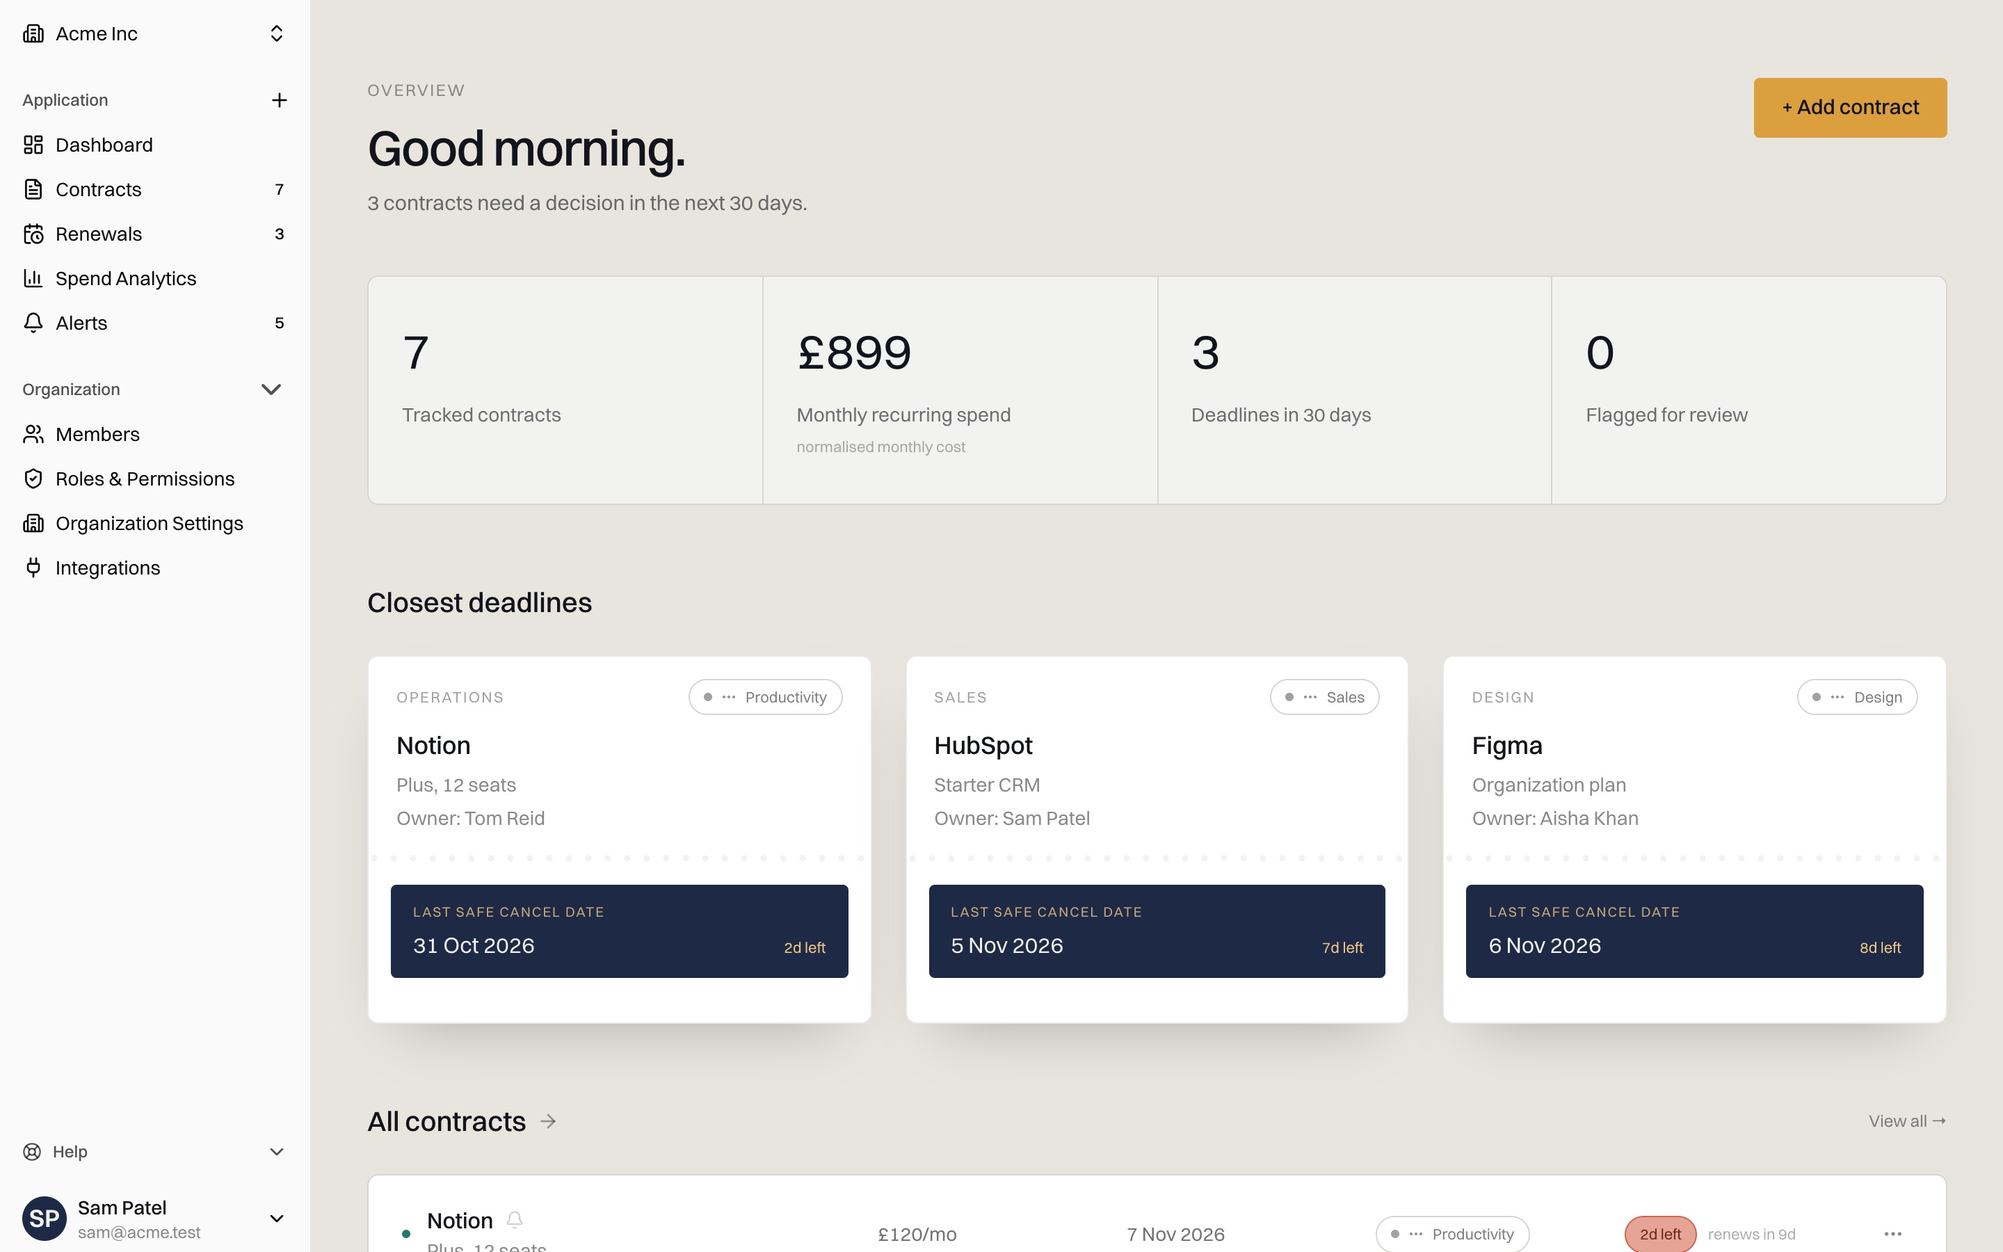
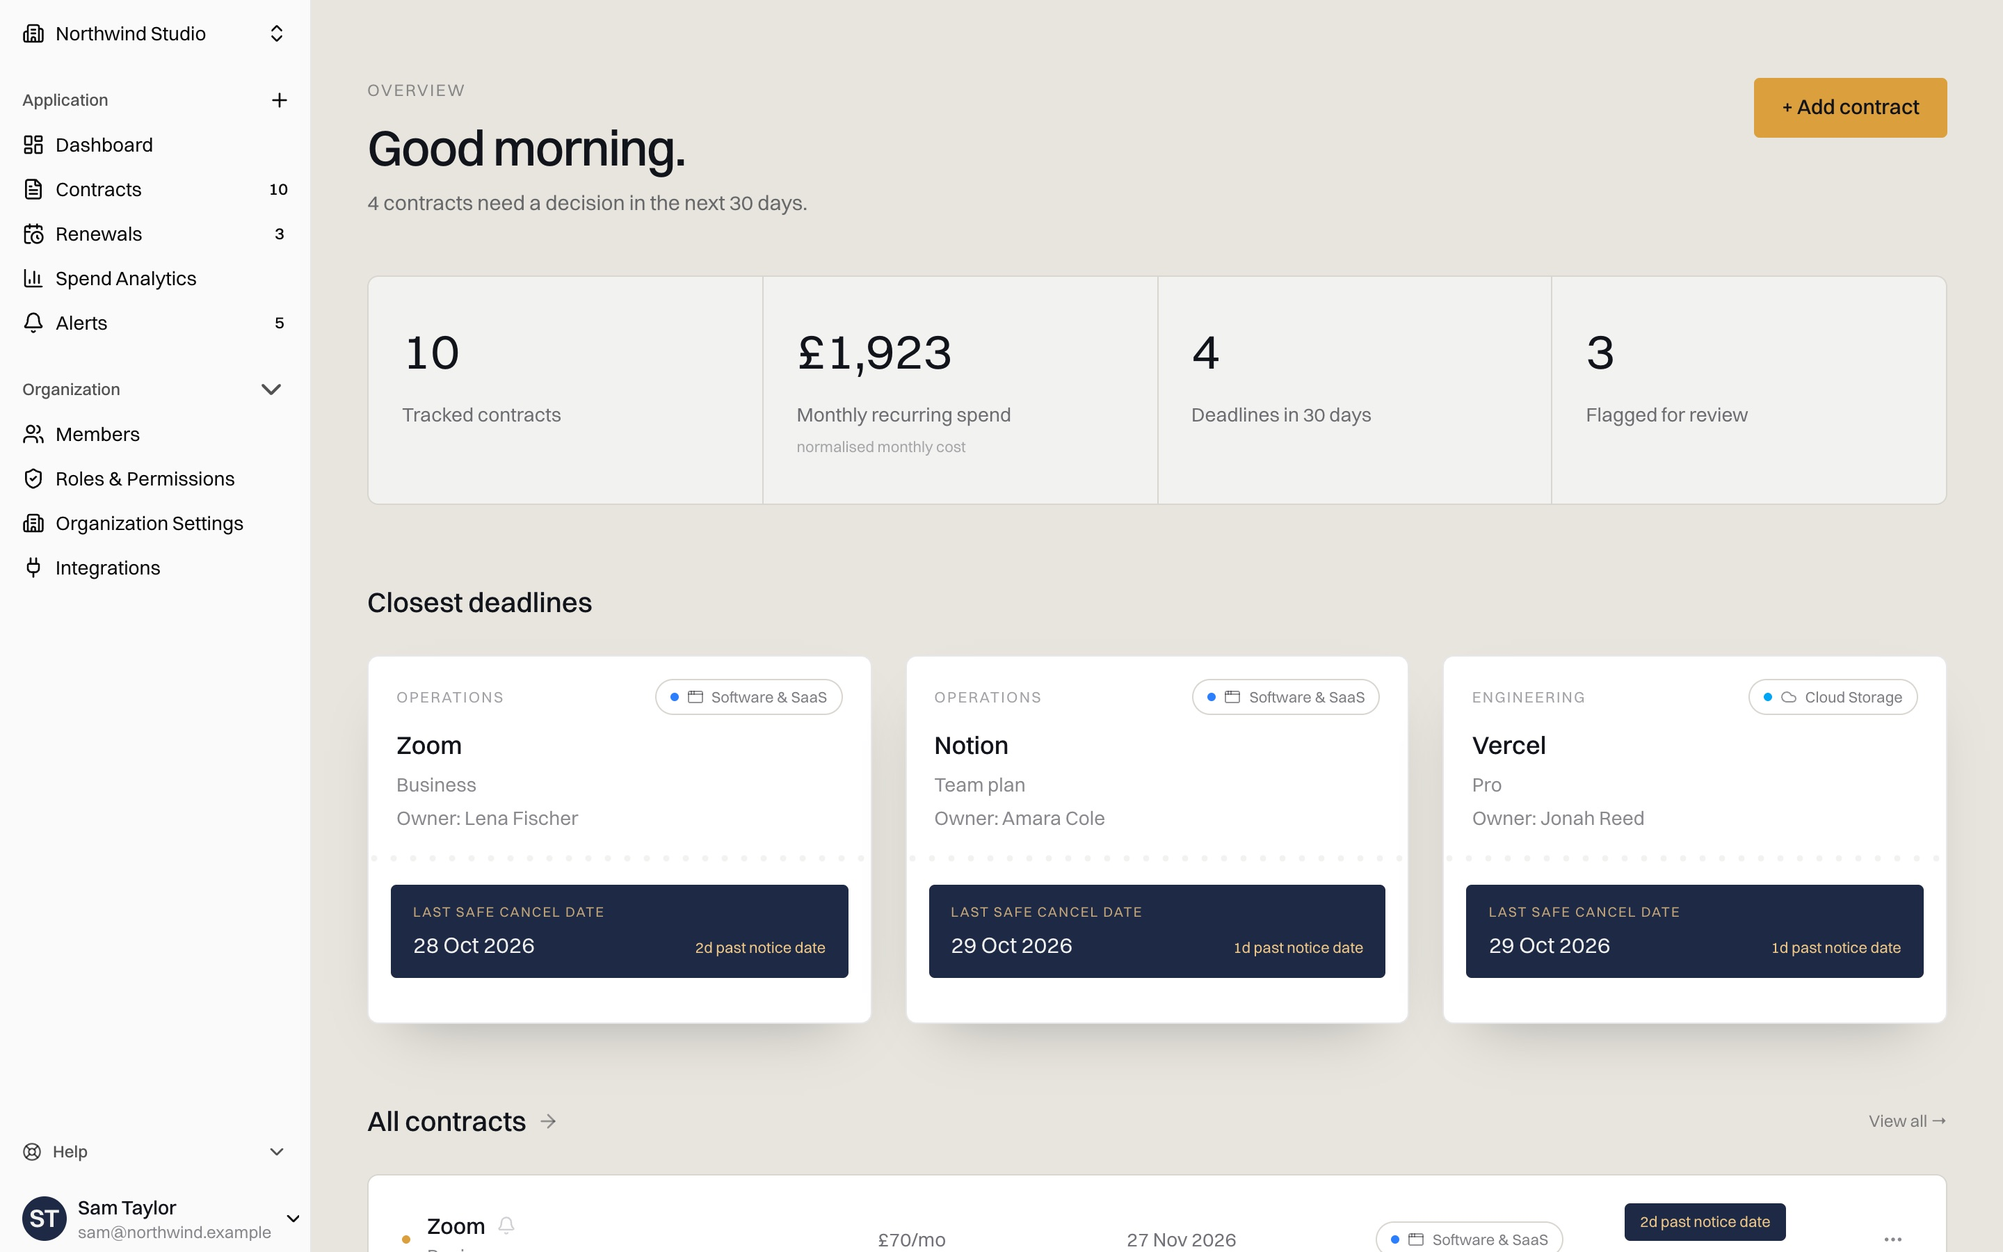
Add /journey page, real project screenshots and personal details

diff --git a/src/data/journey.ts b/src/data/journey.ts
@@ -1,13 +1,18 @@
 // The Journey section on the home page. Oldest first, ordered by GitHub creation date.
 // To add a node, see workflows/add-journey-node.md. Nothing here may overclaim: roles are
-// stated, and every "learned" line is Musa's own words (TODO(musa) until written).
+// stated, and every "learned" and "story" line comes from Musa's own account.
 import type { ImageMetadata } from 'astro';
 import prayer from '../assets/journey/prayer.jpg';
+import prayerTimes from '../assets/journey/prayer-times.jpg';
 import newsflux from '../assets/journey/newsflux.jpg';
+import newsfluxWeather from '../assets/journey/newsflux-weather.jpg';
 import hussein from '../assets/journey/hussein.jpg';
+import husseinServices from '../assets/journey/hussein-services.jpg';
 import placeholder from '../assets/journey/placeholder.svg';
 import renewly from '../assets/projects/renewly-dashboard.jpg';
+import renewlyMembers from '../assets/projects/renewly-members.jpg';
 import dsb from '../assets/projects/dsb-home-desktop.jpg';
+import dsbAreas from '../assets/projects/dsb-areas.jpg';
 
 export type Node = {
   id: string;
@@ -15,7 +20,9 @@ export type Node = {
   title: string;
   role: string;        // "My own", "Team project", ...
   stack: string[];     // skills this node adds to the running list
-  learned: string;     // one honest line, in Musa's words
+  learned: string;     // the key takeaway, short enough for the Journey card
+  story: string[];     // the longer version, shown on /journey
+  more?: { image: ImageMetadata; alt: string }; // a second screenshot on /journey
   image: ImageMetadata;
   alt: string;
   host: string;        // label in the browser-frame bar
@@ -29,9 +36,14 @@ export const nodes: Node[] = [
     id: 'islamic-tools-hub',
     date: 'Nov 2025',
     title: 'Islamic Tools Hub',
-    role: 'My own', // TODO(musa): confirm
-    stack: ['HTML', 'CSS', 'JavaScript', 'React', 'REST APIs'],
-    learned: 'TODO(musa): what the very first build taught you.',
+    role: 'My own',
+    stack: ['HTML', 'CSS', 'REST APIs'],
+    learned: 'This taught me the very basics: what an API key is, how it works and how to use one.',
+    story: [
+      "This was my first real try at building something with an API. It was very low level, it wasn't technical and it didn't look good at all.",
+      'It did teach me the very basics of what an API key is and how it works. Seeing that work is what made me want to build more.',
+    ],
+    more: { image: prayerTimes, alt: 'Prayer Times page of Islamic Tools Hub: city, country and calculation method fields above a Get Prayer Times button.' },
     image: prayer,
     alt: 'Islamic Tools Hub home page: lanterns and a crescent moon behind four buttons for Prayer Times, Tasbeeh Counter, Random Hadith and Islamic Quiz.',
     host: 'Practice_prayer_api · local run',
@@ -43,11 +55,17 @@ export const nodes: Node[] = [
     id: 'news-flux',
     date: 'Nov 2025',
     title: 'News Flux',
-    role: 'Team project', // TODO(musa): confirm your part; repo is srahman14/news-flux
-    stack: ['Python', 'Flask', 'Vite', 'API design'],
-    learned: 'TODO(musa): what working on a Flask and React app taught you.',
+    role: 'Team project',
+    stack: ['JavaScript', 'React', 'Tailwind CSS', 'Vite', 'Flask', 'Postman', 'Git'],
+    learned: 'How to work with a collaborator: committing, pushing and building one site together. Also my first proper go at React.',
+    story: [
+      'News Flux is a news aggregator I built with a friend. He made the news page. I made the weather, currency, NASA and crypto pages and designed the site.',
+      'It taught me how to work with a collaborator, and how to commit and push. I got much more practice with API keys, which gave me trouble at first, and picked up better design techniques from templates and classes I found online and on GitHub.',
+      'It was the first project where I properly used JavaScript in a website, along with Tailwind, React, Vite and Flask, and the first time I tested with Postman. It still had plenty of issues, but it was the first thing I made that I thought looked good.',
+    ],
+    more: { image: newsfluxWeather, alt: 'News Flux weather page showing a five-day forecast for London.' },
     image: newsflux,
-    alt: 'News Flux daily dashboard: weather forecast for Berlin, top currencies, top five cryptocurrencies and top headlines.',
+    alt: 'News Flux daily dashboard: a five-day weather forecast for Madrid, top currencies and the top five cryptocurrencies.',
     host: 'news-flux-krxg.onrender.com',
     href: 'https://news-flux-krxg.onrender.com/',
     polish: 1,
@@ -57,11 +75,17 @@ export const nodes: Node[] = [
     id: 'hussein',
     date: 'Dec 2025',
     title: 'Prof. Dr G. Hussein website',
-    role: 'My own', // TODO(musa): confirm
-    stack: ['GitHub Pages'],
-    learned: 'TODO(musa): what building a site for someone else taught you.',
+    role: 'My own',
+    stack: ['Web forms', 'CAPTCHA', 'GitHub Pages'],
+    learned: "If communication with a client isn't done right, the build drags on. And reuse matters: I wrote hundreds of near-identical lines of HTML.",
+    story: [
+      'I made this site for a professor to document his work, achievements and history. It was my first bigger solo project, and it showed.',
+      "The main thing I learnt is how important it is to communicate with a client. I didn't do it well, and that made the build extremely long and dragged out.",
+      'I also learnt the value of reusability. I built it almost entirely in HTML and some CSS, which meant hundreds of similar, redundant lines. Libraries would have made it far easier. It was also my first time with web forms, email routing, CAPTCHA, a navbar and 15+ blog posts with templates I designed myself. Not all of it went perfectly, but I got it running and I was really proud of it.',
+    ],
+    more: { image: husseinServices, alt: 'Services page of the Prof. Dr G. Hussein website: six cards of therapeutic, supervision and research services on a teal background.' },
     image: hussein,
-    alt: 'Home page of the Prof. Dr G. Hussein website.',
+    alt: 'Publications page of the Prof. Dr G. Hussein website: cards for books, journals and blogs above gradient buttons for browsing books by year.',
     host: 'musaburke.github.io',
     href: 'https://musaburke.github.io/Prof.-Dr-G.-Hussein-Website/',
     polish: 1,
@@ -71,11 +95,17 @@ export const nodes: Node[] = [
     id: 'renewly',
     date: 'Jul 2026',
     title: 'Renewly',
-    role: 'Team project', // TODO(musa): confirm your part
-    stack: ['TypeScript', 'Next.js', 'Supabase', 'TanStack Query'],
-    learned: 'TODO(musa): what the date logic and database rules taught you.',
+    role: 'Team project',
+    stack: ['TypeScript', 'Next.js', 'Supabase', 'SQL', 'Zustand'],
+    learned: 'Working with a database and real users means security comes first: who can see what, and what the frontend never gets to touch.',
+    story: [
+      'Renewly was my first big collaborative project and my first time working with a database, a login system and a user base. If it went wrong it could cause real damage, and that changed how I think. We also planned the flow and tools first, instead of just coding with no direction.',
+      "Most of what I learnt was about protecting data. I used SQL and Supabase to manage the database and set its rules, stopped people reaching other accounts' data by changing the URL, and kept the backend hidden from the frontend.",
+      "It also showed me how much communication with a collaborator matters, and how important file and variable naming gets across a huge number of files. I lost progress more than once to bad Git habits I thought didn't matter, which is how I learnt to take branches and rebasing seriously.",
+    ],
+    more: { image: renewlyMembers, alt: 'Renewly members page with sample data: an owner, two admins and members in an invented team, with a form to invite someone.' },
     image: renewly,
-    alt: 'Renewly dashboard with sample data: seven tracked contracts and the three closest last-safe-cancel dates.',
+    alt: 'Renewly dashboard with sample data: ten tracked contracts, £1,923 monthly spend and the three closest last-safe-cancel dates.',
     host: 'Renewly · sample data',
     href: '/projects/renewly',
     polish: 2,
@@ -86,8 +116,14 @@ export const nodes: Node[] = [
     date: 'Oct 2026',
     title: 'DSB Commercial Cleaning',
     role: 'Sole developer, real client',
-    stack: ['Astro', 'Tailwind CSS', 'Cloudflare', 'Security headers'],
-    learned: 'TODO(musa): what shipping for a real client taught you.',
+    stack: ['Astro', 'Cloudflare', 'Web3Forms', 'Security headers'],
+    learned: 'Everything came together here. I also learnt to use AI properly: as a co-agent that helps me build, teaches me and debugs, with me reviewing all of it.',
+    story: [
+      'This is where I put everything together, including my past mistakes. I had a full plan and stuck to it. I asked the client all my questions at once instead of waiting, set up scheduled talks and built prototypes for them to react to.',
+      "I also learnt how to use AI properly. I treat it as a co-agent: it helps me build, teaches me as I go and helps me debug when I'm stuck, and I review everything it recommends before it goes in. A lot of people use it blindly and their skills get dulled, so I made a point of using it the right way, and it went well.",
+      'It was my first time using Web3Forms, getting my own domain through Namecheap, deploying it and connecting it all through Cloudflare, after a lot of tutorials and failed deployments. It was also my first time doing proper security checks: HTTPS enforced with HSTS, a Content Security Policy, security headers and rate limiting. I set up a business email address with SPF and DMARC, used a Cloudflare Worker for email routing around launch, connected Google Search Console, and followed UK rules on handling user data.',
+    ],
+    more: { image: dsbAreas, alt: 'DSB areas page with London picked on a gold outline map of the five counties covered.' },
     image: dsb,
     alt: 'DSB Commercial Cleaning home page, black and gold, with a close-up of a freshly cleaned carpet.',
     host: 'dsbcommercialcleaning.co.uk',
@@ -104,5 +140,5 @@ export const future = {
   hue: '#9fd09c', // the site's own accent
   date: 'Next',
   title: 'Security',
-  text: 'TODO(musa): what you are studying in cyber security right now, and what you want to build next.',
+  text: 'Working through TryHackMe and the Google Cybersecurity Certificate, with the aim of a career in cyber security.',
 };

diff --git a/src/data/site.ts b/src/data/site.ts
@@ -2,16 +2,17 @@
 // Search the repo for TODO(musa) to find what still needs filling in.
 
 export const site = {
-  name: 'Musa Burke', // TODO(musa): confirm display name
+  name: 'Musa Burke',
   role: 'Front-end developer',
   description:
     'Musa Burke is a student front-end developer building fast, accessible websites with Astro, TypeScript and React, and studying toward cyber security.',
-  location: 'TODO(musa): city, UK',
-  study: 'TODO(musa): course, university, year',
-  openTo: 'Internships and placements', // TODO(musa): confirm
-  email: 'hello@example.com', // TODO(musa): your public email address
+  location: 'London, UK',
+  study: 'BSc Computer Science',
+  studyAt: 'Year 2, City, University of London',
+  openTo: 'Internships and placements',
+  email: 'muburke07@gmail.com',
   github: 'https://github.com/Musaburke',
-  linkedin: 'https://www.linkedin.com/in/TODO-musa', // TODO(musa): real LinkedIn URL
+  linkedin: 'https://www.linkedin.com/in/musa-burke',
   cv: '', // TODO(musa): put cv.pdf in /public and set this to '/cv.pdf'
 };
 

diff --git a/src/data/experience.ts b/src/data/experience.ts
@@ -14,16 +14,16 @@ export const experience: Entry[] = [
     when: '2026',
     title: 'Developer, Renewly',
     where: 'Team project',
-    detail: 'TODO(musa): one line on what you built on Renewly and with whom.',
+    detail: 'Built with a friend: the dashboard and whole design, the contract logic, database rules, email 2FA, account deletion, and teams with owner and member permissions.',
     href: '/projects/renewly',
   },
 ];
 
 export const education: Entry[] = [
   {
-    when: 'TODO(musa)',
-    title: 'TODO(musa): course name',
-    where: 'TODO(musa): university',
-    detail: 'TODO(musa): relevant modules, e.g. object-oriented programming in Java, databases, networks.',
+    when: 'Year 2',
+    title: 'BSc Computer Science',
+    where: 'City, University of London',
+    detail: 'Aiming for a career in cyber security. Learning on the side: TryHackMe and the Google Cybersecurity Certificate.',
   },
 ];

diff --git a/src/styles/global.css b/src/styles/global.css
@@ -178,3 +178,13 @@ html:not(.js) .wipe::after { transform: scaleX(1); }
   .wipe::after { transform: scaleX(1); transition: none; }
   .js [data-split] .w > span { transform: none; transition: none; }
 }
+
+/* Page transitions: a native cross-document fade and rise, so no page script has to re-run. */
+@view-transition { navigation: auto; }
+@keyframes page-out { to { opacity: 0; transform: translateY(-8px); } }
+@keyframes page-in { from { opacity: 0; transform: translateY(12px); } }
+::view-transition-old(root) { animation: page-out 180ms var(--ease-out) both; }
+::view-transition-new(root) { animation: page-in 320ms var(--ease-out) both; }
+@media (prefers-reduced-motion: reduce) {
+  @view-transition { navigation: none; }
+}

diff --git a/src/data/toolkit.ts b/src/data/toolkit.ts
@@ -37,7 +37,7 @@ export const toolkit: Tool[] = [
   {
     name: 'Cyber security',
     usedIn: 'Learning now',
-    detail: 'TODO(musa): what you are studying right now, e.g. TryHackMe paths or a certificate.',
+    detail: 'Working through TryHackMe and the Google Cybersecurity Certificate, alongside my BSc Computer Science.',
     shot: 'security',
   },
 ];

diff --git a/TODO.md b/TODO.md
@@ -3,43 +3,32 @@
 Everything the site still needs from you. Search the code for `TODO(musa)` for the same list with exact lines.
 
 ## 1. Facts about you (`src/data/site.ts`)
-- [ ] Display name (line 5): confirm "Musa Burke"
-- [ ] Location (line 9): city, UK
-- [ ] Studying (line 10): course, university, year
-- [ ] Open to (line 11): confirm "Internships and placements"
-- [ ] Public email (line 12): currently `hello@example.com`
-- [ ] LinkedIn URL (line 14): currently a placeholder
+- [ ] Location: confirm "London, UK" (inferred from your university)
+- [ ] Open to: confirm "Internships and placements"
 - [ ] CV (line 15): put `cv.pdf` in `public/` and set it to `'/cv.pdf'`
 
 ## 2. Education and experience (`src/data/experience.ts`)
-- [ ] Renewly entry (line 17): one line on what you built, and with whom
-- [ ] Education entry (lines 24-27): dates, course, university, relevant modules
+- [ ] Education entry: add dates and relevant modules if you want them shown
 
 ## 3. Case studies
-- [ ] `src/content/projects/renewly.mdx`: your role (line 5) and the "My part" paragraph (line 37)
-- [ ] `src/content/projects/dsb-cleaning.mdx`: confirm role (line 5), how the client found you (line 24), "what I'd do next" (line 43)
-- [ ] Ask the DSB owner and the Renewly team if you can show their sites publicly
-
-## 4. Cyber security (`src/data/toolkit.ts`, line 40)
-- [ ] What you are studying right now (e.g. TryHackMe paths, a certificate). Only real things.
+- [ ] `src/content/projects/dsb-cleaning.mdx`: how the client found you, and what they had before
 
 ## 5. Your own screenshots (replaces the ones I captured)
 - [ ] Size: 1440x900, JPEG or PNG. Name `<project>-<page>.jpg`, put in `src/assets/projects/`.
-- [ ] DSB: home, services, areas, gallery, contact
-- [ ] Renewly: dashboard, renewals, spend analytics, landing (a real account if you can; otherwise keep the "sample data" label)
+- [x] DSB: areas, reviews, carpet section, contact captured from the live site
+- [x] Renewly: dashboard, renewals, spend analytics, members, settings captured on sample data
 - [ ] Then update `cover` and `gallery` in each project's `.mdx` (see `workflows/add-project.md`)
 - [ ] Square portrait photo for About (`src/components/About.astro`, line 25). Optional: the 3D orb stands in until then.
 - [x] Social share image `public/og.jpg` (captured from the hero, tags in `Base.astro`). Replace it if you want a custom one.
 
 ## 6. Deploy
+- [ ] DSB DNS: change DMARC from `p=none` once reports look clean
 - [ ] Real domain in `astro.config.mjs` (line 10) and `public/robots.txt` (the Sitemap line)
 - [ ] Cloudflare Pages: build `npm run build`, output `dist`, env `NODE_VERSION=22`
 - [ ] The CSP in `public/_headers` is report-only. After deploying, open the live site with the console open. If there are no violations, rename the header to `Content-Security-Policy` to enforce it. Preview servers do not apply `_headers`, so this can only be checked live.
 
 ## 7. Journey (`src/data/journey.ts`)
-- [ ] One honest "what I learned" line per project (5 lines) and the future text (what you are studying, what you want to build next)
-- [ ] Confirm roles: Islamic Tools Hub ("My own"?), News Flux (team: what was your part?), Hussein site ("My own"?), Renewly (your part)
-- [ ] Screenshots there were captured by me: Islamic Tools Hub (ran it locally), News Flux (live site), Hussein site (live). Replace with your own if you prefer: 1440x900, same file names in `src/assets/journey/`
+- [ ] Read the "what I learned" lines: they are condensed from your notes, so the "story" text too (`src/data/journey.ts`), and fix any that don't sound like you
 
 ## 8. Content
 - [ ] `src/content/blog/hello-world.mdx`: write it (description + post, then `draft: false`) or delete it

diff --git a/AGENTS.md b/AGENTS.md
@@ -36,7 +36,7 @@ Musa Burke's portfolio. Static site: Astro 7, TypeScript (strict), Tailwind CSS 
 v3 flow (from Musa's references: cheryllao.me intro + drawer, benscott.dev hero + full-screen sections, perryolsson.com pyramid + back-to-top):
 preloader (name + gooey liquid blob, once per session) -> hero "Hello, I'm Musa." with typed rotator over the wireframe globe -> Work (one full screen per project: colour slab + isometric stack that flattens on scroll) -> About (liquid orb) -> Toolkit -> Contact (glass card + link pyramid with back-to-top). Free scroll, no snap.
 Journey (`Journey.astro`, data in `src/data/journey.ts`): between Work and About. On wide screens the stage pins and scroll moves the nodes past a fixed centre ring; the active node expands, the skills row grows, and it sets `window.__warp` (0..1) so the starfield streaks before the last node, then `window.__kick` makes the field pulse as the final star ignites. Phones, reduced motion and no-JS get a plain vertical timeline. Add nodes with `workflows/add-journey-node.md`.
-Section order and ids (`top`, `work`, `journey`, `about`, `toolkit`, `contact`) are used by the drawer's scroll-spy; keep them in sync with `Header.astro`.
+Section order and ids: `top`, `work`, `journey`, `about`, `toolkit`, `contact`. The drawer in `Header.astro` lists pages only (Home, Case studies, My journey, About me) plus Contact; visitors scroll the home flow rather than jump around it. Add Writing back with the first published post.
 
 Original v1 notes:
 
